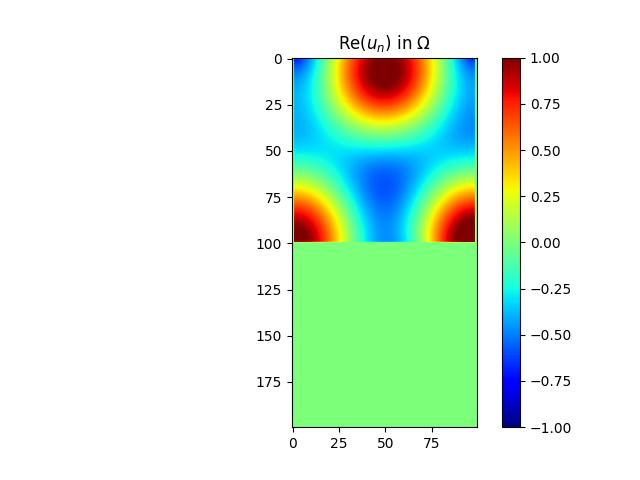
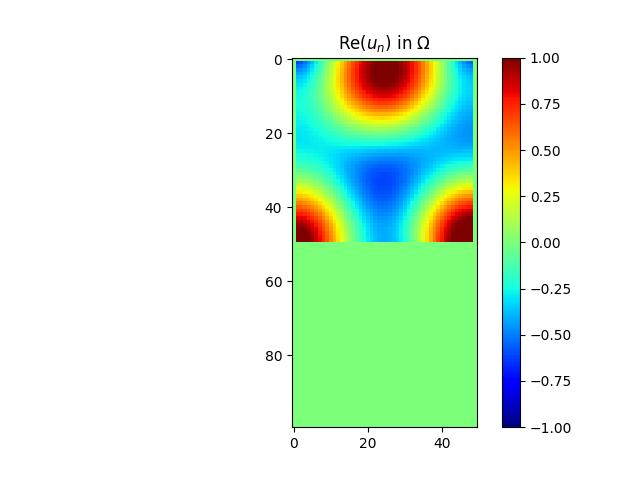
commit plage fréquence

diff --git a/demo_control_polycopie2023.py b/demo_control_polycopie2023.py
@@ -259,14 +259,18 @@ if __name__ == '__main__':
     # ----------------------------------------------------------------------
     # -- set parameters of the geometry
 
-    N = 100  # number of points along x-axis
+    N = 50  # number of points along x-axis
     M = 2 * N  # number of points along y-axis
     level = 0 # level of the fractal
     spacestep = 1.0 / N  # mesh size
 
     # -- set parameters of the partial differential equation
-    kx = 5*(-1.0)
-    ky = 5*(-1.0)
+    #kx=ky= (sqrt(2)pi/340)*f
+    f= np.linspace(1500,3500,10)
+    kx = -((np.sqrt(2)*np.pi)/340)*f
+    ky = kx
+    #kx = 5*(-1.0)
+    #ky = 5*(-1.0)
     wavenumber = np.sqrt(kx**2 + ky**2)  # wavenumber
     omega= 340*wavenumber
     
